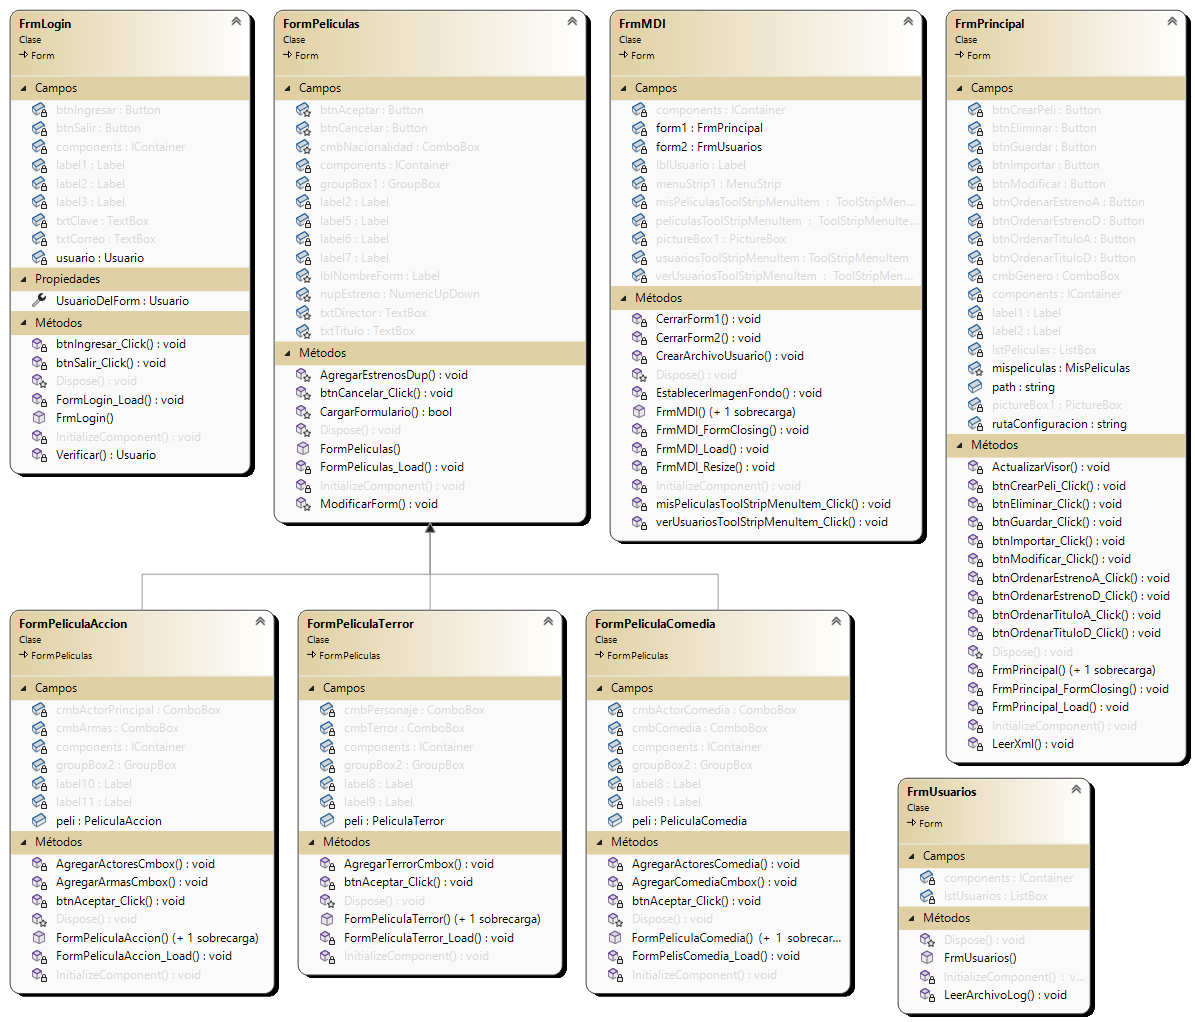
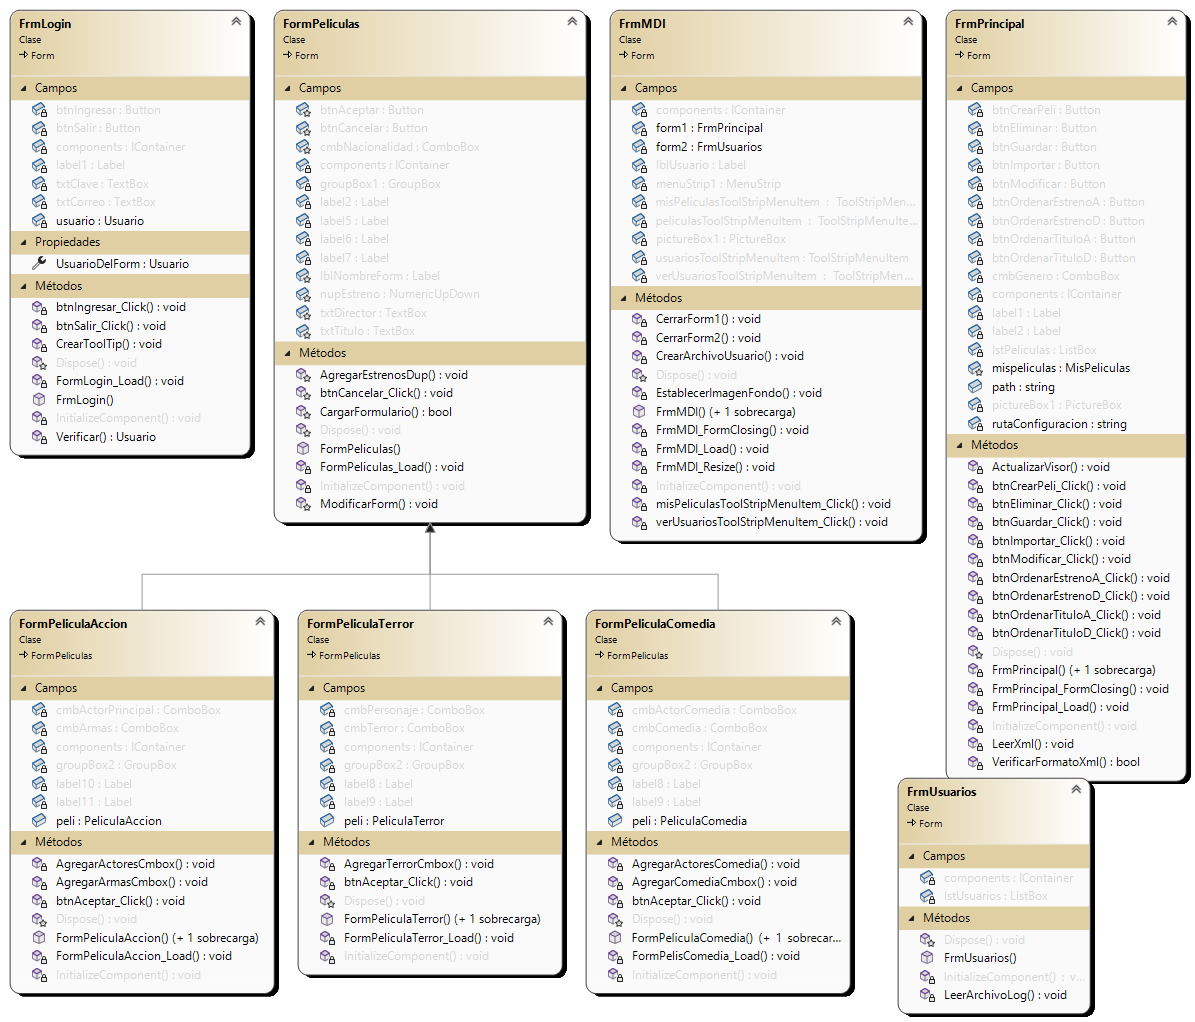
última actualización

Changed region(s): [[0.0, 0.182, 0.2167, 0.4853], [0.805, 0.728, 1.0, 0.7886]]

diff --git a/Formulario/FrmLogin.Designer.cs b/Formulario/FrmLogin.Designer.cs
@@ -33,26 +33,25 @@
             label1 = new Label();
             txtCorreo = new TextBox();
             txtClave = new TextBox();
-            label2 = new Label();
-            label3 = new Label();
             SuspendLayout();
             // 
             // btnIngresar
             // 
-            btnIngresar.BackColor = Color.LimeGreen;
+            btnIngresar.BackColor = Color.FromArgb(192, 0, 0);
             btnIngresar.FlatStyle = FlatStyle.Popup;
-            btnIngresar.ForeColor = SystemColors.ControlText;
-            btnIngresar.Location = new Point(27, 186);
+            btnIngresar.Font = new Font("Arial Rounded MT Bold", 12.75F, FontStyle.Regular, GraphicsUnit.Point);
+            btnIngresar.ForeColor = Color.White;
+            btnIngresar.Location = new Point(38, 223);
             btnIngresar.Name = "btnIngresar";
             btnIngresar.Size = new Size(312, 45);
             btnIngresar.TabIndex = 0;
-            btnIngresar.Text = "INGRESAR";
+            btnIngresar.Text = "Iniciar sesión";
             btnIngresar.UseVisualStyleBackColor = false;
             btnIngresar.Click += btnIngresar_Click;
             // 
             // btnSalir
             // 
-            btnSalir.Location = new Point(264, 284);
+            btnSalir.Location = new Point(275, 351);
             btnSalir.Name = "btnSalir";
             btnSalir.Size = new Size(75, 23);
             btnSalir.TabIndex = 1;
@@ -63,53 +62,46 @@
             // label1
             // 
             label1.AutoSize = true;
-            label1.Font = new Font("Segoe UI Semibold", 15.75F, FontStyle.Bold, GraphicsUnit.Point);
-            label1.Location = new Point(27, 34);
+            label1.BackColor = Color.Transparent;
+            label1.Font = new Font("Arial Rounded MT Bold", 20.25F, FontStyle.Regular, GraphicsUnit.Point);
+            label1.ForeColor = Color.White;
+            label1.Location = new Point(38, 39);
             label1.Name = "label1";
-            label1.Size = new Size(153, 30);
+            label1.Size = new Size(176, 32);
             label1.TabIndex = 2;
-            label1.Text = "INICIO SESION";
+            label1.Text = "Inicia sesión";
             // 
             // txtCorreo
             // 
-            txtCorreo.Location = new Point(27, 96);
+            txtCorreo.BackColor = Color.Silver;
+            txtCorreo.BorderStyle = BorderStyle.FixedSingle;
+            txtCorreo.Font = new Font("Segoe UI", 12F, FontStyle.Regular, GraphicsUnit.Point);
+            txtCorreo.ForeColor = SystemColors.ControlText;
+            txtCorreo.Location = new Point(38, 96);
             txtCorreo.Name = "txtCorreo";
-            txtCorreo.Size = new Size(312, 23);
+            txtCorreo.PlaceholderText = "Correo electrónico";
+            txtCorreo.Size = new Size(312, 29);
             txtCorreo.TabIndex = 3;
             // 
             // txtClave
             // 
-            txtClave.Location = new Point(27, 145);
+            txtClave.BackColor = Color.Silver;
+            txtClave.BorderStyle = BorderStyle.FixedSingle;
+            txtClave.Font = new Font("Segoe UI", 12F, FontStyle.Regular, GraphicsUnit.Point);
+            txtClave.Location = new Point(38, 155);
             txtClave.Name = "txtClave";
             txtClave.PasswordChar = '*';
-            txtClave.Size = new Size(312, 23);
+            txtClave.PlaceholderText = "Clave";
+            txtClave.Size = new Size(312, 29);
             txtClave.TabIndex = 4;
-            // 
-            // label2
-            // 
-            label2.AutoSize = true;
-            label2.Location = new Point(27, 78);
-            label2.Name = "label2";
-            label2.Size = new Size(46, 15);
-            label2.TabIndex = 5;
-            label2.Text = "Correo:";
-            // 
-            // label3
-            // 
-            label3.AutoSize = true;
-            label3.Location = new Point(27, 127);
-            label3.Name = "label3";
-            label3.Size = new Size(70, 15);
-            label3.TabIndex = 6;
-            label3.Text = "Contraseña:";
             // 
             // FrmLogin
             // 
             AutoScaleDimensions = new SizeF(7F, 15F);
             AutoScaleMode = AutoScaleMode.Font;
-            ClientSize = new Size(366, 319);
-            Controls.Add(label3);
-            Controls.Add(label2);
+            BackgroundImage = Properties.Resources.inicio_cineflix;
+            BackgroundImageLayout = ImageLayout.Stretch;
+            ClientSize = new Size(389, 399);
             Controls.Add(txtClave);
             Controls.Add(txtCorreo);
             Controls.Add(label1);
@@ -130,7 +122,5 @@
         private Label label1;
         private TextBox txtCorreo;
         private TextBox txtClave;
-        private Label label2;
-        private Label label3;
     }
 }

diff --git a/Formulario/FrmPrincipal.cs b/Formulario/FrmPrincipal.cs
@@ -194,7 +194,31 @@ namespace Formulario
         }
 
         /// <summary>
-        /// Intenta leer el archivo xml con la colección genérica
+        /// Se encarga de verificar el formato del archivo.
+        /// </summary>
+        /// <param name="rutaArchivo"></param>
+        /// <returns>true si el formato es correcto y no es nulo ni esta vacio, de lo contrario false</returns>
+        private bool VerificarFormatoXml(string rutaArchivo)
+        {
+            try
+            {
+                using (XmlTextReader reader = new XmlTextReader(rutaArchivo))
+                {
+                    XmlSerializer serializador = new XmlSerializer(typeof(List<Pelicula>));
+                    var peliculas = (List<Pelicula>)serializador.Deserialize(reader);
+
+                    return peliculas != null && peliculas.Count > 0;
+                }
+            }
+            catch (Exception)
+            {
+                return false;
+            }
+        }
+
+        /// <summary>
+        /// Intenta leer el archivo xml con la colección, 
+        /// la lista actual va a ser el contenido del archivo 
         /// si no pudo se muestra un mensaje.
         /// </summary>
         private void LeerXml()
@@ -227,11 +251,23 @@ namespace Formulario
                 OpenFileDialog openFileDialog = new OpenFileDialog();
                 openFileDialog.Filter = "Archivos XML (*.xml)|*.xml"; //descripcion del tipo de arch | filtro real * cualquier caracter antes
                 openFileDialog.InitialDirectory = FrmPrincipal.rutaConfiguracion;
+
                 if (openFileDialog.ShowDialog() == DialogResult.OK)
                 {
-                    FrmPrincipal.rutaConfiguracion = openFileDialog.FileName;
-                    this.LeerXml();
-                    this.ActualizarVisor();
+                    string path = openFileDialog.FileName;
+                    
+                    if(VerificarFormatoXml(path))
+                    {
+                        FrmPrincipal.rutaConfiguracion = path;
+                        this.LeerXml();
+                        this.ActualizarVisor();
+                        MessageBox.Show("El archivo se importó con éxito!");
+                    }
+                    else
+                    {
+                        MessageBox.Show("El archivo no contiene el formato correcto.", "Error", MessageBoxButtons.OK, MessageBoxIcon.Error);
+                    }
+                    
                 }
             }
             catch (IOException ex)

diff --git a/Formulario/Properties/Resources.Designer.cs b/Formulario/Properties/Resources.Designer.cs
@@ -83,6 +83,16 @@ namespace Formulario.Properties {
         /// <summary>
         ///   Busca un recurso adaptado de tipo System.Drawing.Bitmap.
         /// </summary>
+        internal static System.Drawing.Bitmap inicio_cineflix {
+            get {
+                object obj = ResourceManager.GetObject("inicio_cineflix", resourceCulture);
+                return ((System.Drawing.Bitmap)(obj));
+            }
+        }
+        
+        /// <summary>
+        ///   Busca un recurso adaptado de tipo System.Drawing.Bitmap.
+        /// </summary>
         internal static System.Drawing.Bitmap user {
             get {
                 object obj = ResourceManager.GetObject("user", resourceCulture);

diff --git a/Formulario/FrmMDI.cs b/Formulario/FrmMDI.cs
@@ -68,7 +68,7 @@ namespace Formulario
             }
         }
 
-        void CerrarForm1(object sender, FormClosedEventArgs e)
+        void CerrarForm1(object? sender, FormClosedEventArgs e)
         {
             //sender = sender ?? this;
             this.form1 = null;
@@ -146,7 +146,7 @@ namespace Formulario
             }
 
         }
-        void CerrarForm2(object sender, FormClosedEventArgs e)
+        void CerrarForm2(object? sender, FormClosedEventArgs e)
         {
             this.form2 = null;
         }
